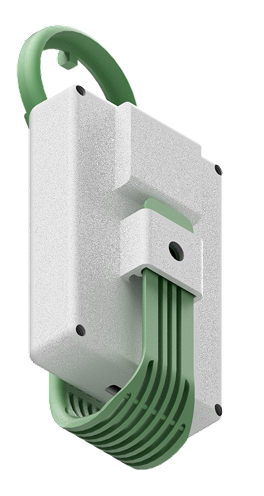
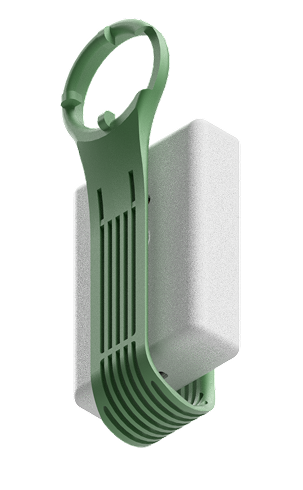
feat: enhance product page layout and image handling

diff --git a/app/products/petsa-01/page.tsx b/app/products/petsa-01/page.tsx
@@ -16,6 +16,7 @@ import {
     BellRing,
     ShieldCheck
 } from 'lucide-react';
+import { cn } from '@/lib/utils';
 
 const FEATURES_DATA = [
     {
@@ -98,12 +99,18 @@ export default function Petsa01Page() {
                 {/* --- SECTION 1: HERO --- */}
                 <section className="relative flex w-full flex-col items-center justify-center overflow-hidden px-4 pt-32 pb-16">
                     {/* Ambient Glow */}
-                    <div className="pointer-events-none absolute left-1/2 top-1/2 h-[800px] w-[800px] -translate-x-1/2 -translate-y-1/2 rounded-full overflow-hidden">
-                        <div className="absolute inset-0 blur-[100px] bg-blue-500/5 dark:bg-white/5 rounded-full" />
-                    </div>
-
+                    <div
+                        className={cn(
+                            "absolute inset-0",
+                            "[background-size:40px_40px]",
+                            "[background-image:linear-gradient(to_right,#e4e4e7_1px,transparent_1px),linear-gradient(to_bottom,#e4e4e7_1px,transparent_1px)]",
+                            "dark:[background-image:linear-gradient(to_right,#262626_1px,transparent_1px),linear-gradient(to_bottom,#262626_1px,transparent_1px)]",
+                        )}
+                    />
+                    {/* Radial gradient for the container to give a faded look */}
+                    <div className="pointer-events-none absolute inset-0 flex items-center justify-center bg-white [mask-image:radial-gradient(ellipse_at_center,transparent_20%,black)] dark:bg-black"></div>
                     <div className="relative z-10 flex w-full max-w-5xl flex-col items-center text-center">
-                        <header className="mb-16 flex flex-col items-center">
+                        <header className=" flex flex-col items-center">
                             <h2 className="mb-4 text-4xl font-bold tracking-tight text-black dark:text-white md:text-5xl lg:text-[2.75rem]">
                                 PETSA 01
                             </h2>
@@ -128,8 +135,8 @@ export default function Petsa01Page() {
                                     src={src}
                                     alt={`PETSA 01 View ${index + 1}`}
                                     className={`absolute left-0 top-0 h-full w-full object-contain drop-shadow-2xl transition-all duration-700 ease-in-out ${index === currentImageIndex
-                                        ? 'opacity-100 z-10 scale-100 hover:scale-105'
-                                        : 'opacity-0 z-0 scale-95 pointer-events-none'
+                                        ? 'opacity-100 z-10 scale-50 '
+                                        : 'opacity-0 z-0 scale-50 pointer-events-none'
                                         }`}
                                     loading={index === 0 ? "eager" : "lazy"}
                                 />
@@ -171,9 +178,9 @@ export default function Petsa01Page() {
                     <div className="w-full max-w-5xl space-y-6">
 
                         {/* Banner */}
-                        <div className="relative overflow-hidden rounded-xl border border-amber-500/20 bg-amber-50 dark:bg-[#110808] p-6 shadow-sm dark:shadow-[0_0_30px_-10px_rgba(245,158,11,0.1)] sm:p-8">
-                            <div className="flex flex-col gap-6 md:flex-row md:items-center md:justify-between relative z-10">
-                                <div className="flex-1">
+                        <div className="relative overflow-hidden rounded-xl border mt-12 border-amber-500/20 bg-amber-50 dark:bg-[#110808] p-6 shadow-sm dark:shadow-[0_0_30px_-10px_rgba(245,158,11,0.1)] sm:p-8">
+                            <div className="flex flex-col  gap-6 md:flex-row md:items-center md:justify-between relative z-10">
+                                <div className="flex-1 ">
                                     <h3 className="mb-2 text-lg font-semibold text-amber-800 dark:text-amber-500 sm:text-xl flex items-center gap-2">
 
                                         Coming Soon

diff --git a/app/products/page.tsx b/app/products/page.tsx
@@ -64,7 +64,7 @@ export default function ProductsPage() {
                 {products.map((product, index) => (
                     <section
                         key={product.id}
-                        className={`relative flex flex-col justify-between p-8 sm:p-12 lg:p-16 lg:pt-32 lg:h-screen overflow-hidden ${product.theme.bg} ${index === 0 ? 'lg:border-r' : ''} ${product.theme.border}`}
+                        className={`relative flex flex-col justify-between p-8 sm:p-12 lg:p-16 lg:pt-32 min-h-screen lg:min-h-[calc(100vh-3.5rem)] lg:h-auto overflow-hidden ${product.theme.bg} ${index === 0 ? 'lg:border-r' : ''} ${product.theme.border}`}
                     >
                         {/* Ambient Radial Glow */}
                         <div className="absolute top-0 left-0 w-full h-full overflow-hidden pointer-events-none">
@@ -85,7 +85,13 @@ export default function ProductsPage() {
                                 )}
                             </div>
 
-                            <img src={product.img} alt="" className={product.img ? "active-class h-80" : "inactive-class"} />
+                            {product.img && (
+                                <img
+                                    src={product.img}
+                                    alt={product.name}
+                                    className="w-full h-auto max-h-48 sm:max-h-64 lg:max-h-80 object-contain object-left drop-shadow-2xl transition-transform "
+                                />
+                            )}
 
 
                             <h2 className="text-5xl sm:text-6xl font-semibold tracking-tight mb-4 mt-10">
